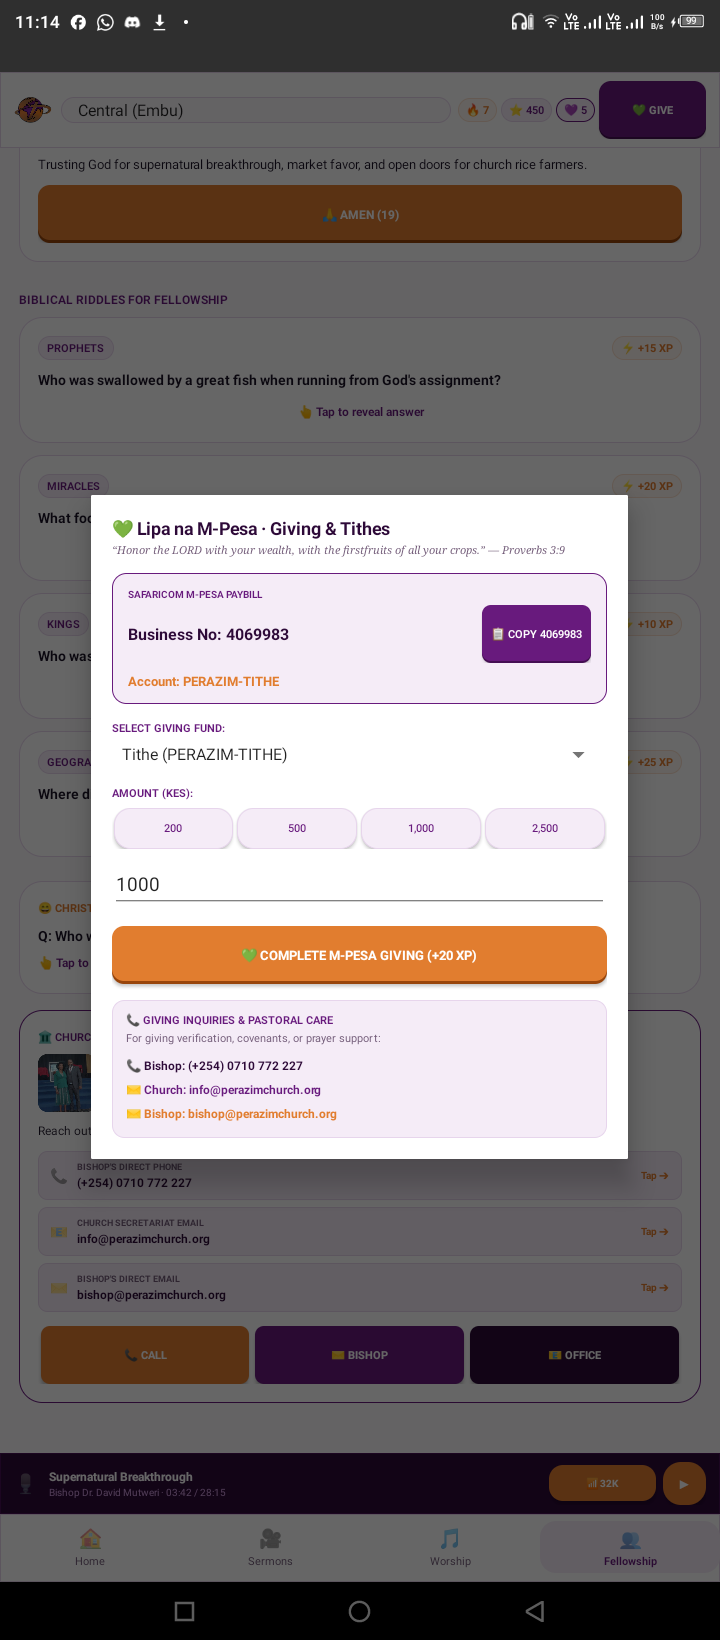
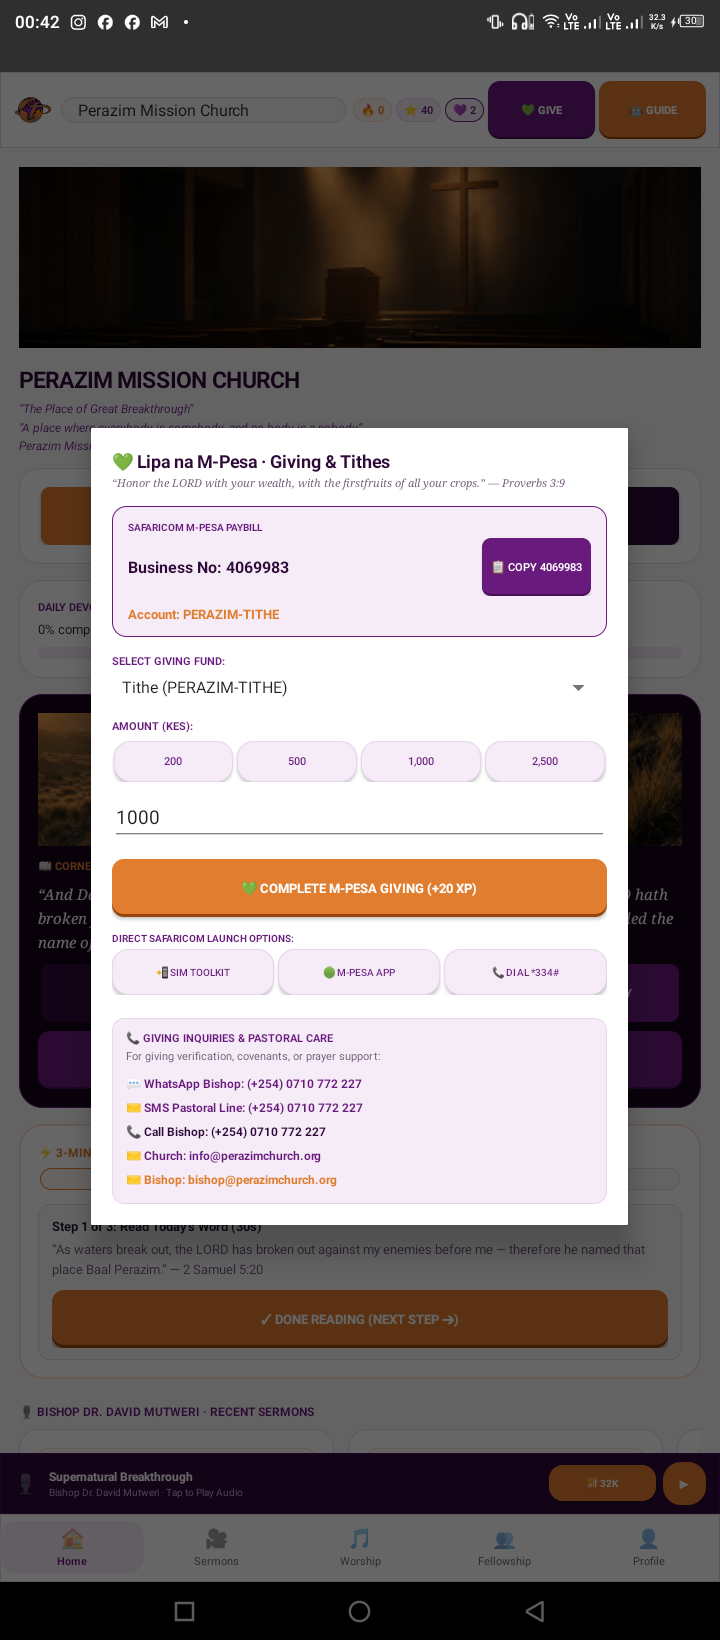
feat(release): lock app ID to org.perazimchurch.app v2.2.0 (code 4), add release signing, feedback button, and update README

diff --git a/src/main/java/org/perazimchurch/app/MainActivity.java b/src/main/java/org/perazimchurch/app/MainActivity.java
@@ -118,6 +118,7 @@ public class MainActivity extends Activity implements View.OnClickListener, Dial
     private TextView tvMiniTrackSub;
     private Button btnMiniPlayPause;
     private Button btnMiniDataSaver;
+    private View miniPlayerContainer;
     private boolean isPlaying = false;
     private boolean isDataSaverActive = true;
 
@@ -410,6 +411,8 @@ public class MainActivity extends Activity implements View.OnClickListener, Dial
 
     private View createMiniPlayer() {
         LinearLayout player = new LinearLayout(this);
+        miniPlayerContainer = player;
+        player.setVisibility(View.GONE);
         player.setOrientation(LinearLayout.HORIZONTAL);
         player.setGravity(Gravity.CENTER_VERTICAL);
         player.setBackgroundColor(COLOR_PURPLE_DARK);
@@ -432,7 +435,7 @@ public class MainActivity extends Activity implements View.OnClickListener, Dial
         textCol.setLayoutParams(lpText);
 
         tvMiniTrackTitle = new TextView(this);
-        tvMiniTrackTitle.setText("Supernatural Breakthrough");
+        tvMiniTrackTitle.setText("No Audio Playing");
         tvMiniTrackTitle.setTextSize(TypedValue.COMPLEX_UNIT_SP, 12);
         tvMiniTrackTitle.setTypeface(Typeface.DEFAULT_BOLD);
         tvMiniTrackTitle.setTextColor(COLOR_WHITE);
@@ -440,13 +443,18 @@ public class MainActivity extends Activity implements View.OnClickListener, Dial
         textCol.addView(tvMiniTrackTitle);
 
         tvMiniTrackSub = new TextView(this);
-        tvMiniTrackSub.setText("Bishop Dr. David Mutweri · Tap to Play Audio");
+        tvMiniTrackSub.setText("Select a sermon to play audio");
         tvMiniTrackSub.setTextSize(TypedValue.COMPLEX_UNIT_SP, 10);
         tvMiniTrackSub.setTextColor(COLOR_PURPLE_SOFT);
         tvMiniTrackSub.setMaxLines(1);
         textCol.addView(tvMiniTrackSub);
 
-        textCol.setOnClickListener(v -> showSermonPlayerDialog("Supernatural Breakthrough in Hard Times", "Bishop Dr. David Mutweri"));
+        textCol.setOnClickListener(v -> {
+            String title = (tvMiniTrackTitle != null && !tvMiniTrackTitle.getText().toString().equals("No Audio Playing"))
+                    ? tvMiniTrackTitle.getText().toString()
+                    : "Supernatural Breakthrough in Hard Times";
+            showSermonPlayerDialog(title, "Bishop Dr. David Mutweri");
+        });
         player.addView(textCol);
 
         // Data Saver Switch Button
@@ -1329,9 +1337,6 @@ public class MainActivity extends Activity implements View.OnClickListener, Dial
             if (tvGivingAccount != null && tvGivingAccount.getText() != null) {
                 account = tvGivingAccount.getText().toString().replace("Account: ", "").trim();
             }
-            xpCount += 20;
-            GamificationStore.saveSpiritualXp(this, resolveGamificationUserId(), xpCount);
-            updateHud();
             ChurchIntentManager.launchMpesaGiving(this, "4069983", account, amt);
             dlg.dismiss();
         });
@@ -2582,6 +2587,9 @@ public class MainActivity extends Activity implements View.OnClickListener, Dial
         LinearLayout rowPaybill = createInteractiveContactRow("💚", "Safaricom Giving Paybill", "4069983 (Tap to Give)", v -> showGivingDialog());
         contactCard.addView(rowPaybill);
 
+        LinearLayout rowFeedback = createInteractiveContactRow("🛠", "Feedback & Report Issue", "WhatsApp App Admin (Bug reports & suggestions)", v -> ChurchIntentManager.openWhatsAppChat(this, "+254710772227", "Perazim App Pilot Feedback:\n\nDevice: " + android.os.Build.MANUFACTURER + " " + android.os.Build.MODEL + " (Android " + android.os.Build.VERSION.RELEASE + ")\nVersion: 2.2.0\nFeedback / Bug: "));
+        contactCard.addView(rowFeedback);
+
         // Quick Action Buttons
         LinearLayout contactButtonsRow = new LinearLayout(this);
         contactButtonsRow.setOrientation(LinearLayout.HORIZONTAL);
@@ -3136,6 +3144,20 @@ public class MainActivity extends Activity implements View.OnClickListener, Dial
     }
 
     private void showSermonPlayerDialog(String sermonTitle, String speaker) {
+        if (miniPlayerContainer != null) {
+            miniPlayerContainer.setVisibility(View.VISIBLE);
+        }
+        if (tvMiniTrackTitle != null) {
+            tvMiniTrackTitle.setText(sermonTitle);
+        }
+        if (tvMiniTrackSub != null) {
+            tvMiniTrackSub.setText(speaker + " · Playing Audio");
+        }
+        isPlaying = true;
+        if (btnMiniPlayPause != null) {
+            btnMiniPlayPause.setText("⏸");
+        }
+
         AlertDialog.Builder builder = new AlertDialog.Builder(this);
         LinearLayout box = new LinearLayout(this);
         box.setOrientation(LinearLayout.VERTICAL);

diff --git a/src/main/java/org/perazimchurch/app/presentation/ui/ProfileUiBinder.java b/src/main/java/org/perazimchurch/app/presentation/ui/ProfileUiBinder.java
@@ -854,6 +854,7 @@ public class ProfileUiBinder {
         card.addView(createInteractiveRow("📍", "Directions to Embu HQ", "Perazim Mission Church, Embu", v -> ChurchIntentManager.openChurchMaps(context)));
         card.addView(createInteractiveRow("💚", "Safaricom Giving Paybill", "4069983 (Lipa na M-Pesa)", v -> ChurchIntentManager.launchMpesaGiving(context, "4069983", "OFFERING", "")));
         card.addView(createInteractiveRow("📧", "Secretariat Email", "info@perazimchurch.org", v -> ChurchIntentManager.sendEmail(context, "info@perazimchurch.org", "Perazim Church Inquiry", "")));
+        card.addView(createInteractiveRow("🛠", "Feedback & Report Issue", "WhatsApp App Admin (Bug reports & suggestions)", v -> ChurchIntentManager.openWhatsAppChat(context, "+254710772227", "Perazim App Pilot Feedback:\n\nDevice: " + android.os.Build.MANUFACTURER + " " + android.os.Build.MODEL + " (Android " + android.os.Build.VERSION.RELEASE + ")\nVersion: 2.2.0\nFeedback / Bug: ")));
 
         return card;
     }

diff --git a/src/main/java/org/perazimchurch/app/presentation/ui/HomeUiBinder.java b/src/main/java/org/perazimchurch/app/presentation/ui/HomeUiBinder.java
@@ -43,6 +43,7 @@ import androidx.annotation.NonNull;
 import androidx.annotation.Nullable;
 
 import org.perazimchurch.app.domain.model.Announcement;
+import org.perazimchurch.app.navigation.ChurchIntentManager;
 import org.perazimchurch.app.domain.model.BibleVerse;
 import org.perazimchurch.app.domain.model.Event;
 import org.perazimchurch.app.domain.model.Reflection;
@@ -1229,8 +1230,7 @@ public class HomeUiBinder {
         btnConfirmGive.setOnClickListener(v -> {
             String amt = etAmount.getText().toString().trim();
             if (amt.isEmpty()) amt = "1000";
-            awardXp(20);
-            Toast.makeText(context, "🙏 Giving recorded for KES " + amt + " to Paybill 4069983! May God open the windows of heaven upon you! (+20 XP)", Toast.LENGTH_LONG).show();
+            ChurchIntentManager.launchMpesaGiving(context, "4069983", "TITHE", amt);
             dlg.dismiss();
         });
 

diff --git a/README.md b/README.md
@@ -1,10 +1,11 @@
 # PERAZIM MISSION CHURCH — Official Android Application
 
 [![Build Status](https://github.com/lmurugu/perazim-android/actions/workflows/build.yml/badge.svg)](https://github.com/lmurugu/perazim-android/actions)
-[![Platform](https://img.shields.io/badge/Platform-Android%20API%2026--34-brightgreen.svg)](https://developer.android.com)
-[![Language](https://img.shields.io/badge/Language-Java%208%20%2F%2021-orange.svg)](https://www.oracle.com/java/)
+[![Platform](https://img.shields.io/badge/Platform-Android%20API%2024--34-brightgreen.svg)](https://developer.android.com)
+[![Version](https://img.shields.io/badge/Version-v2.2.0%20(Build%204)-purple.svg)](https://github.com/lmurugu/perazim-android)
+[![Language](https://img.shields.io/badge/Language-Java%2011%20%2F%2021-orange.svg)](https://www.oracle.com/java/)
 [![License: MIT](https://img.shields.io/badge/License-MIT-yellow.svg)](LICENSE)
-[![Architecture](https://img.shields.io/badge/Architecture-Native%20Android-blue.svg)](https://developer.android.com)
+[![Package](https://img.shields.io/badge/Package-org.perazimchurch.app-blue.svg)](https://github.com/lmurugu/perazim-android)
 
 > **Motto**: *“The Place of Great Breakthrough”*  
 > **Slogan**: *“A place where everybody is somebody, and no body is a nobody”*
@@ -35,49 +36,40 @@
 
 ---
 
-## 📱 Visual Showcase
+## 📱 Visual Showcase (100-Member Pilot on Physical Device)
 
-| Home & Perazim Mission Church | Lipa na M-Pesa Giving | Scripture Reader (2 Sam 5) |
-| :---: | :---: | :---: |
-| <a href="docs/screenshots/live_screen_home.png"><img src="docs/screenshots/live_screen_home.png" width="240" alt="Home Screen"/></a> | <a href="docs/screenshots/live_screen_giving_modal.png"><img src="docs/screenshots/live_screen_giving_modal.png" width="240" alt="Giving Modal"/></a> | <a href="docs/screenshots/live_screen_passage.png"><img src="docs/screenshots/live_screen_passage.png" width="240" alt="Scripture Reader"/></a> |
-
-| Sermons & Audio Streaming | Worship & Chord Browser | Fellowship & Prayer Wall | Pastoral Dialer Integration |
+| Home & Daily Routine | Lipa na M-Pesa Giving | Profile & Pastoral Suite | Prayer Petition & WhatsApp Intercession |
 | :---: | :---: | :---: | :---: |
-| <a href="docs/screenshots/live_screen_sermons.png"><img src="docs/screenshots/live_screen_sermons.png" width="200" alt="Sermons Screen"/></a> | <a href="docs/screenshots/live_screen_worship.png"><img src="docs/screenshots/live_screen_worship.png" width="200" alt="Worship Chords"/></a> | <a href="docs/screenshots/live_screen_fellowship.png"><img src="docs/screenshots/live_screen_fellowship.png" width="200" alt="Fellowship Wall"/></a> | <a href="docs/screenshots/live_screen_dialer.png"><img src="docs/screenshots/live_screen_dialer.png" width="200" alt="Dialer Screen"/></a> |
+| <a href="docs/screenshots/live_screen_home.png"><img src="docs/screenshots/live_screen_home.png" width="200" alt="Home Screen"/></a> | <a href="docs/screenshots/live_screen_giving_modal.png"><img src="docs/screenshots/live_screen_giving_modal.png" width="200" alt="Giving Modal"/></a> | <a href="docs/screenshots/live_screen_profile.png"><img src="docs/screenshots/live_screen_profile.png" width="200" alt="Profile Screen"/></a> | <a href="docs/screenshots/live_screen_prayer_dialog.png"><img src="docs/screenshots/live_screen_prayer_dialog.png" width="200" alt="Prayer Wall"/></a> |
+
+| Sermons & Media Stream | Worship & Chords | Scripture Reader |
+| :---: | :---: | :---: |
+| <a href="docs/screenshots/live_screen_sermons.png"><img src="docs/screenshots/live_screen_sermons.png" width="200" alt="Sermons Screen"/></a> | <a href="docs/screenshots/live_screen_worship.png"><img src="docs/screenshots/live_screen_worship.png" width="200" alt="Worship Chords"/></a> | <a href="docs/screenshots/live_screen_passage.png"><img src="docs/screenshots/live_screen_passage.png" width="200" alt="Scripture Reader"/></a> |
 
 ---
 
 ## ✨ Feature Highlights
 
-- 💚 **Lipa na M-Pesa Giving**: Integrated Safaricom M-Pesa integration targeting Paybill `4069983`, interactive fund routing (Tithe, Breakthrough Offering, Building Fund, Benevolence), one-touch amount chips (200, 500, 1,000, 2,500 KES), and native SIM toolkit / copy dispatch.
-- 📖 **Full Scripture Reader**: 2 Samuel 5:17–21 narrative detailing David's victory at Baal-Perazim ("The Lord has broken through my enemies before me, like the breakthrough of waters"), accompanied by contextual pastoral exposition and verse analysis.
-- ⚡ **3-Minute Breakthrough Routine**: Gamified spiritual discipline module featuring Read, Reflect, and Pray steps, complete with streak tracking, Grace Points, and leveling XP rewards.
-- 🎙 **Persistent Mini-Player & Data-Saver Audio**: Optimized for low-bandwidth African mobile network environments with efficient 32kbps AAC streaming audio playback and persistent background controls.
-- 🎵 **Expanded Hymnal & Chord Browser**: Digital hymnal library featuring chord charts (guitar and keyboard) for timeless hymns, Swahili praise choruses, and modern worship anthems.
-- 🤝 **Community Prayer Wall & Pastoral Care**: Real-time prayer petition board with intercession counters, praise report sharing, and direct one-tap pastoral connections (`[ Call ]`, `[ Bishop Email ]`, `[ Secretariat Email ]`).
-
----
-
-## 📞 Pastoral Care & Official Contacts
-
-Perazim Mission Church Central Campus is situated in Embu, Kenya, serving members locally and across the global diaspora.
-
-- **Paybill Business Number**: `4069983`
-- **Bishop Direct Phone**: `(+254) 0710 772 227`
-- **Church Secretariat Email**: `info@perazimchurch.org`
-- **Bishop Direct Email**: `bishop@perazimchurch.org`
+- 💚 **Safaricom M-Pesa Giving (3-Tier Cascade)**: Integrated Safaricom M-Pesa integration targeting Paybill `4069983`. Copies Paybill and account code to clipboard, checks and opens the Safaricom M-Pesa App or SIM Toolkit (`com.android.stk`), with immediate fallback to the Safaricom `*334#` USSD dialer.
+- 💬 **Pastoral Care via WhatsApp**: Direct one-tap messaging to Presiding Bishop Dr. David Mutweri (`+254710772227`) for private prayer petitions, counseling, and pastoral support.
+- ✉ **Offline Pastoral SMS**: Formatted SMS intercession link via `smsto:+254710772227` ensuring congregants without active internet bundles can immediately submit urgent prayer needs.
+- 📍 **Sanctuary Directions (Google Maps)**: One-tap deep-link intent (`geo:0,0?q=Perazim+Mission+Church+Embu`) guiding congregants directly to Perazim Headquarters in Embu.
+- 🛠 **In-App Feedback & Issue Reporting**: Direct channel connecting pilot members with the App Administrator via WhatsApp with device model, Android OS version, and app version diagnostics prefilled.
+- 📖 **Offline Multi-Translation Holy Bible**: Complete offline biblical library containing 5 translations (King James Version, Swahili SUV, NIV, ESV, NKJV) backed by Room SQLite with instant sub-millisecond retrieval.
+- ⚡ **Dynamic 3-Minute Breakthrough Routine**: Habit-building devotional module (Read Word, Reflect, Pray) that dynamically updates progress (`0%` -> `33%` -> `66%` -> `100% / +40 XP`), backed by streak tracking and Grace Tokens.
+- 🤖 **On-Device AI Breakthrough Guide**: Offline conversational assistant routing members through scriptures, giving guidance, hymns, and fellowship without external cloud API dependencies.
+- 🎵 **Hymnal & Chord Browser**: Offline hymnal library featuring chord charts (guitar and piano) for timeless hymns, Swahili choruses, and contemporary worship songs.
 
 ---
 
 ## 🏛 Architecture & Tech Stack
 
-The Perazim Android application is architected for maximum responsiveness, low memory footprint, and instant startup times across all Android devices (Android 8.0 Oreo through Android 14+):
-
-- **Core Language**: Java (Java 8 / Java 21 LTS compatible toolchains)
-- **UI Architecture**: High-performance Native Android View hierarchy built programmatically for zero XML layout inflation overhead and instantaneous frame rendering.
-- **Offline-First Asset Engine**: Local asset bundling for high-resolution graphics, hymnal chords, sermon audio metadata, and theological texts.
-- **System Intents**: Seamless deep-linking to system dialer (`tel:`), email clients (`mailto:`), and clipboard managers.
-- **Target SDK**: Android 34 (Android 14) with backward compatibility down to Android 8.0 (API 26) / Android 7.0 (API 24).
+- **Application ID & Namespace**: `org.perazimchurch.app`
+- **Core Language**: Java 11 / Java 21 LTS
+- **Persistence Layer**: Room SQLite (`androidx.room:room-runtime:2.6.1`) for users, prayers, offline sermons, bookmarks, and Bible verses.
+- **Intent Orchestration**: `ChurchIntentManager.java` managing all native Android OS handoffs (M-Pesa, WhatsApp, SMS, Calls, Maps, Share Sheet).
+- **Target SDK**: Android 34 (Android 14) with backward compatibility down to Android 7.0 (API 24).
+- **Security & Privacy**: ProGuard/R8 rules enabled; sensitive credentials and keystores excluded from version control.
 
 ---
 
@@ -85,63 +77,60 @@ The Perazim Android application is architected for maximum responsiveness, low m
 
 ### Prerequisites
 - **Java Development Kit**: JDK 21 or JDK 17
-- **Android SDK**: Build-tools `34.0.0` or `33.0.2`, Platforms `android-34`
+- **Android SDK**: Build-tools `34.0.0`, Platforms `android-34`
 - **Gradle**: Gradle 8.5+ (Wrapper included)
 
-### Building with Gradle Wrapper
+### 1. Building the Debug APK
 ```bash
-# Clone the repository
 git clone https://github.com/lmurugu/perazim-android.git
 cd perazim-android
 
-# Build Debug APK
 ./gradlew assembleDebug
 
-# The built APK will be located at:
-# build/outputs/apk/debug/app-debug.apk
+# Output APK: build/outputs/apk/debug/app-debug.apk
 ```
 
-### Direct Toolchain Pipeline (Headless / Standalone CLI)
-For continuous integration or lightweight development environments without full Gradle builds, the project compiles cleanly via direct Android SDK command-line tools:
+### 2. Building the Signed Production Release APK (100-Member Pilot)
 
+For a production release, the APK must be signed with a persistent release keystore so that future updates can install cleanly over previous versions without signature mismatch errors.
+
+#### Keystore Setup
+1. Generate your production release keystore (keep this safe and backed up):
 ```bash
-# 1. Compile Java sources against android.jar
-javac -d obj -cp "$ANDROID_HOME/platforms/android-34/android.jar" $(find src/main/java -name "*.java")
-
-# 2. Convert bytecode to Dalvik Executable (D8)
-$ANDROID_HOME/build-tools/34.0.0/d8 $(find obj -name "*.class") --output build/dex/
-
-# 3. Package resources & compiled DEX with AAPT
-$ANDROID_HOME/build-tools/34.0.0/aapt package -f -m \
-  -F build/unaligned.apk \
-  -M src/main/AndroidManifest.xml \
-  -S src/main/res \
-  -A src/main/assets \
-  -I "$ANDROID_HOME/platforms/android-34/android.jar"
-
-# 4. Add compiled classes.dex into APK
-cd build/dex && zip -u ../unaligned.apk classes.dex && cd ../..
-
-# 5. Optimize memory alignment (zipalign)
-$ANDROID_HOME/build-tools/34.0.0/zipalign -v -p 4 build/unaligned.apk build/aligned.apk
-
-# 6. Cryptographically sign APK (apksigner)
-$ANDROID_HOME/build-tools/34.0.0/apksigner sign \
-  --ks ~/.android/debug.keystore \
-  --ks-pass pass:android \
-  --out build/app-release-signed.apk \
-  build/aligned.apk
+keytool -genkeypair -v -keystore /path/to/perazim-release.jks \
+  -alias perazim-release \
+  -keyalg RSA \
+  -keysize 2048 \
+  -validity 10000 \
+  -dname "CN=Perazim Mission Church, OU=IT Ministry, O=Perazim Mission Church, L=Embu, ST=Eastern, C=KE"
 ```
 
-### Deploying to Android Device or Emulator
+2. Configure `keystore.properties` in your project root (this file is excluded by `.gitignore`):
+```properties
+storeFile=/path/to/perazim-release.jks
+storePassword=YOUR_STORE_PASSWORD
+keyAlias=perazim-release
+keyPassword=YOUR_KEY_PASSWORD
+```
+
+3. Build the signed release APK with Gradle:
 ```bash
-# Check connected device
+./gradlew assembleRelease
+
+# The signed production APK will be located at:
+# build/outputs/apk/release/app-release.apk
+```
+
+### 3. Deploying to Physical Device via ADB
+
+```bash
+# Verify connected device
 adb devices
 
-# Install APK to device
-adb install -r build/outputs/apk/debug/app-debug.apk
+# Install Signed Release APK
+adb install -r build/outputs/apk/release/app-release.apk
 
-# Launch MainActivity directly via ADB
+# Launch App
 adb shell am start -n org.perazimchurch.app/.MainActivity
 ```
 
@@ -151,59 +140,30 @@ adb shell am start -n org.perazimchurch.app/.MainActivity
 
 ```
 perazim-android/
-├── .github/
-│   ├── ISSUE_TEMPLATE/
-│   │   ├── bug_report.md
-│   │   └── feature_request.md
-│   ├── PULL_REQUEST_TEMPLATE.md
-│   └── workflows/
-│       └── build.yml
 ├── docs/
 │   └── screenshots/
 │       ├── live_screen_home.png
 │       ├── live_screen_giving_modal.png
+│       ├── live_screen_profile.png
+│       ├── live_screen_prayer_dialog.png
 │       ├── live_screen_passage.png
 │       ├── live_screen_sermons.png
-│       ├── live_screen_worship.png
-│       ├── live_screen_fellowship.png
-│       └── live_screen_dialer.png
-├── gradle/
-│   └── wrapper/
-│       ├── gradle-wrapper.jar
-│       └── gradle-wrapper.properties
-├── src/
-│   └── main/
-│       ├── AndroidManifest.xml
-│       ├── assets/              # Offline church banners, campus art, hymns
-│       ├── java/
-│       │   └── org/perazimchurch/app/
-│       │       ├── MainActivity.java
-│       │       ├── SermonsActivity.java
-│       │       ├── HymnsActivity.java
-│       │       ├── ReflectionsActivity.java
-│       │       ├── RiddlesActivity.java
-│       │       └── JokesActivity.java
-│       └── res/
-│           ├── color/
-│           ├── drawable/
-│           └── values/
-├── .gitignore
+│       └── live_screen_worship.png
+├── src/main/
+│   ├── AndroidManifest.xml
+│   ├── assets/              # Offline church banners, campus art, hymnal chords
+│   ├── java/org/perazimchurch/app/
+│   │   ├── MainActivity.java
+│   │   ├── ai/              # On-device AI Breakthrough Guide
+│   │   ├── data/            # Room SQLite database, DAOs, repositories, mappers
+│   │   ├── domain/          # Clean architecture domain models
+│   │   ├── navigation/      # ChurchIntentManager (M-Pesa, WhatsApp, SMS, Maps)
+│   │   └── presentation/    # UI binders, ViewModels, and dialogs
+│   └── res/                 # Vector drawables, themes, strings
 ├── build.gradle
-├── gradle.properties
-├── gradlew
-├── gradlew.bat
-├── settings.gradle
-├── LICENSE
-├── CONTRIBUTING.md
-├── CODE_OF_CONDUCT.md
-└── SECURITY.md
+├── keystore.properties      # Local signing config (gitignored)
+└── settings.gradle
 ```
-
----
-
-## 🤝 Contributing
-
-We welcome contributions from developers, designers, translators, and worshippers worldwide! Please read our [CONTRIBUTING.md](CONTRIBUTING.md) and adhere to the [CODE_OF_CONDUCT.md](CODE_OF_CONDUCT.md).
 
 ---
 
